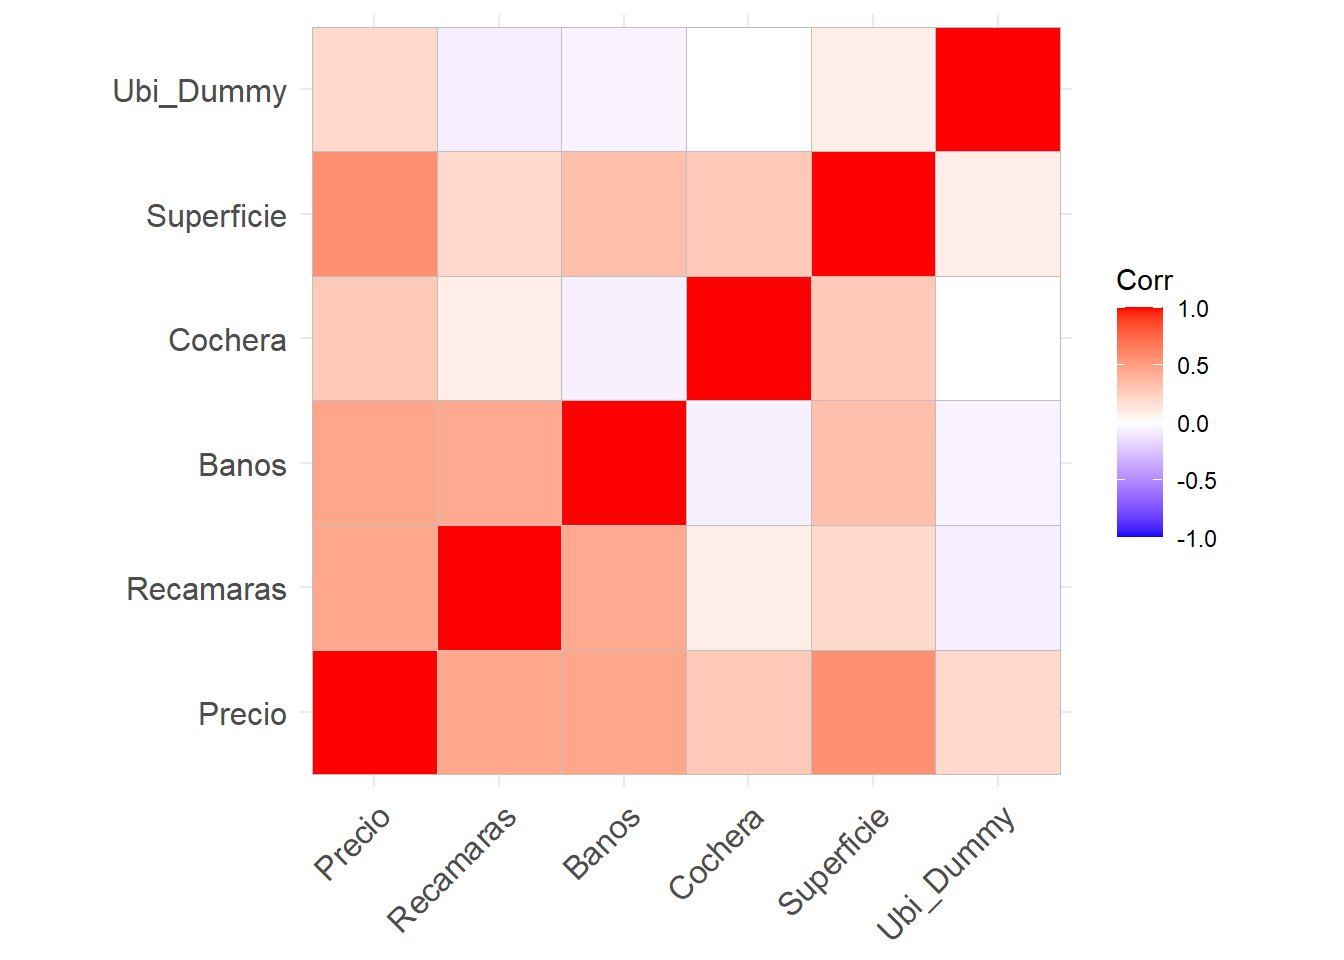
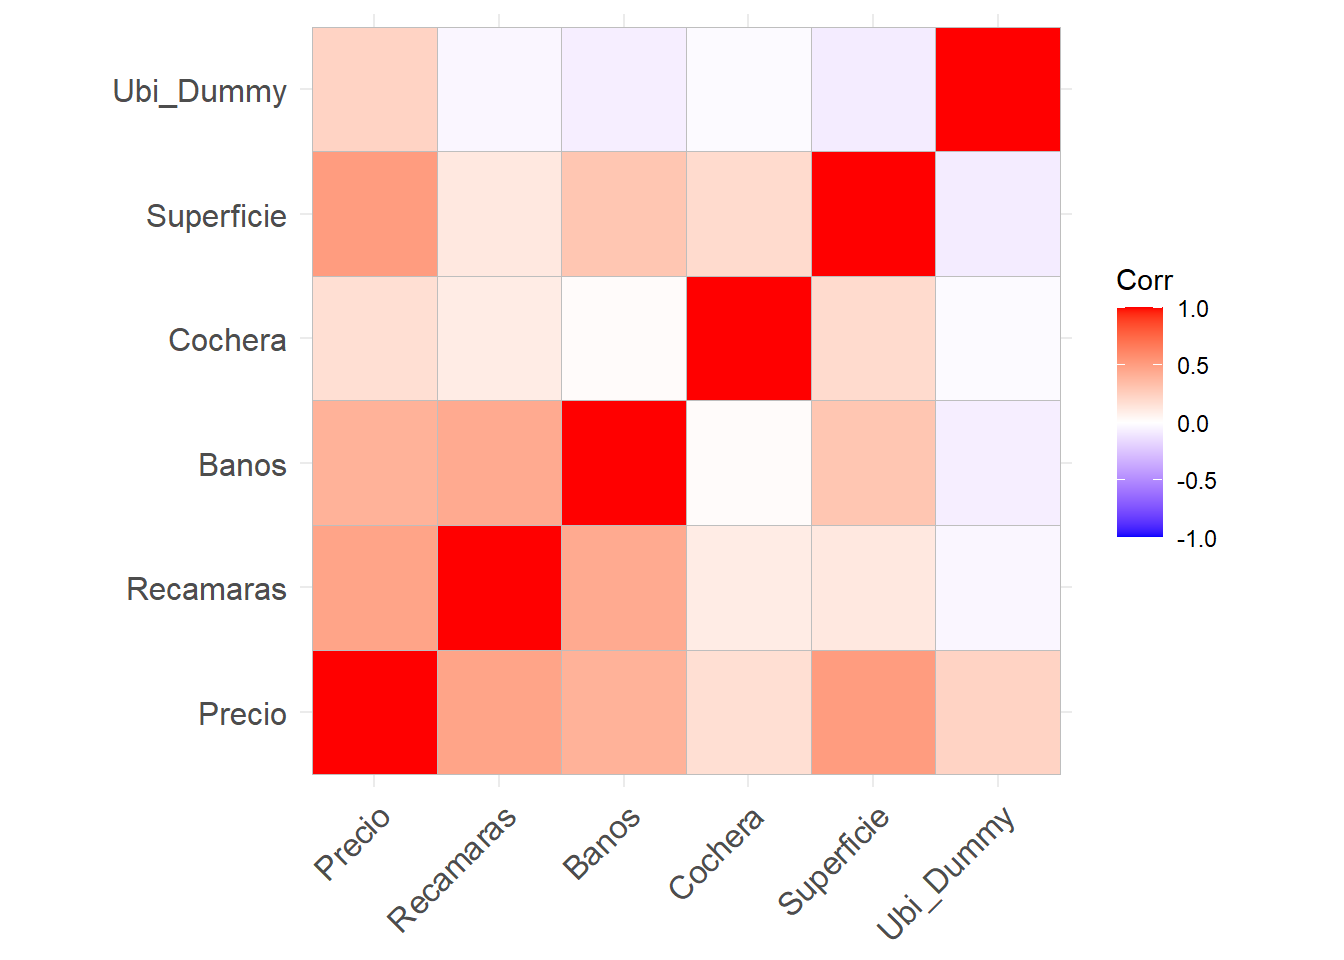
Descirpciones

Changed region(s): [[0.2188, 0.2812, 0.3438, 0.4375], [0.5, 0.6562, 0.625, 0.8125]]

diff --git a/content/portfolio/2022-07-15-qu-determina-el-precio-de-venta-de-las-casas-en-coatepec-veracruz/index.html b/content/portfolio/2022-07-15-qu-determina-el-precio-de-venta-de-las-casas-en-coatepec-veracruz/index.html
@@ -32,7 +32,7 @@ tags:
   - econometrics
   - realestate
 meta_img: images/image.png
-description: Description for the page
+description: Análisis estadístico para avierguar que factores determinan el precio de venta de una casa en el municipio basado en datos extraídos de VivaAnuncios.com. El proyecto culmina en un modelo predictivo de regresión lineal que sugiere el precio para anunciar una casa según sus características.
 runtime: shiny
 output: blogdown::html_document
 ---
@@ -216,11 +216,11 @@ casas %&gt;%
 <pre><code>## # A tibble: 5 x 2
 ##   Ubicacion              `Precio promedio`
 ##   &lt;chr&gt;                              &lt;dbl&gt;
-## 1 Campo Viejo                         2.12
-## 2 Centro                              1.96
-## 3 La Mata                             2.44
-## 4 Nueva Nestle                        2.64
-## 5 Rafael Hernandez Ochoa              2.15</code></pre>
+## 1 Campo Viejo                         2.10
+## 2 Centro                              2.00
+## 3 La Mata                             2.40
+## 4 Nueva Nestle                        3.33
+## 5 Rafael Hernandez Ochoa              2.00</code></pre>
 <pre class="r"><code>casas_dummy &lt;- casas %&gt;%
   mutate(Ubi_Dummy = recode(Ubicacion,
                             &quot;Campo Viejo&quot; = &quot;0&quot;,
@@ -262,7 +262,7 @@ as.data.frame(summary.out$outmat)</code></pre>
 <pre class="r"><code>plot(regsubsets1, scale = &quot;adjr2&quot;, main = &quot;R^2 ajustada&quot;)</code></pre>
 <p><img src="{{< blogdown/postref >}}index_files/figure-html/regressors-1.png" width="672" /></p>
 <pre class="r"><code>which.max(summary.out$adjr2)</code></pre>
-<pre><code>## [1] 5</code></pre>
+<pre><code>## [1] 4</code></pre>
 <p>Construyendo el modelo, conseguiríamos los coeficientes que se muestran en la tabla.</p>
 <pre class="r"><code>#Linear regression model
 summary(lm(Precio ~ Recamaras + Banos + Superficie + Ubi_Dummy, data = casas_dummy))</code></pre>
@@ -272,22 +272,22 @@ summary(lm(Precio ~ Recamaras + Banos + Superficie + Ubi_Dummy, data = casas_dum
 ##     data = casas_dummy)
 ## 
 ## Residuals:
-##     Min      1Q  Median      3Q     Max 
-## -1.0032 -0.3183  0.0565  0.2373  1.4627 
+##      Min       1Q   Median       3Q      Max 
+## -1.09421 -0.30061  0.04995  0.23850  1.33295 
 ## 
 ## Coefficients:
-##             Estimate Std. Error t value Pr(&gt;|t|)    
-## (Intercept) -0.60711    0.41108  -1.477  0.14542    
-## Recamaras    0.34551    0.12781   2.703  0.00912 ** 
-## Banos        0.17794    0.09960   1.787  0.07953 .  
-## Superficie   0.00751    0.00176   4.266 7.89e-05 ***
-## Ubi_Dummy    0.10871    0.05571   1.951  0.05612 .  
+##              Estimate Std. Error t value Pr(&gt;|t|)    
+## (Intercept) -0.729219   0.414017  -1.761 0.083951 .  
+## Recamaras    0.425100   0.121128   3.510 0.000925 ***
+## Banos        0.103957   0.098218   1.058 0.294658    
+## Superficie   0.007595   0.001685   4.507 3.67e-05 ***
+## Ubi_Dummy    0.153767   0.052241   2.943 0.004809 ** 
 ## ---
 ## Signif. codes:  0 &#39;***&#39; 0.001 &#39;**&#39; 0.01 &#39;*&#39; 0.05 &#39;.&#39; 0.1 &#39; &#39; 1
 ## 
-## Residual standard error: 0.4871 on 55 degrees of freedom
-## Multiple R-squared:  0.5034, Adjusted R-squared:  0.4672 
-## F-statistic: 13.94 on 4 and 55 DF,  p-value: 6.499e-08</code></pre>
+## Residual standard error: 0.4718 on 53 degrees of freedom
+## Multiple R-squared:  0.5167, Adjusted R-squared:  0.4802 
+## F-statistic: 14.16 on 4 and 53 DF,  p-value: 6.309e-08</code></pre>
 <pre class="r"><code>modelo &lt;- lm(Precio ~ Recamaras + Banos + Superficie + Ubi_Dummy, data = casas_dummy)
 
 coef &lt;- summary(modelo)$coefficients %&gt;% as.data.frame()
@@ -308,38 +308,38 @@ knitr::kable(coef,
 <tbody>
 <tr class="odd">
 <td align="left">(Intercept)</td>
-<td align="right">-0.6071149</td>
-<td align="right">0.4110850</td>
-<td align="right">-1.476860</td>
-<td align="right">0.1454165</td>
+<td align="right">-0.7292194</td>
+<td align="right">0.4140166</td>
+<td align="right">-1.761329</td>
+<td align="right">0.0839506</td>
 </tr>
 <tr class="even">
 <td align="left">Recamaras</td>
-<td align="right">0.3455078</td>
-<td align="right">0.1278117</td>
-<td align="right">2.703257</td>
-<td align="right">0.0091167</td>
+<td align="right">0.4250995</td>
+<td align="right">0.1211278</td>
+<td align="right">3.509513</td>
+<td align="right">0.0009247</td>
 </tr>
 <tr class="odd">
 <td align="left">Banos</td>
-<td align="right">0.1779415</td>
-<td align="right">0.0996031</td>
-<td align="right">1.786506</td>
-<td align="right">0.0795294</td>
+<td align="right">0.1039573</td>
+<td align="right">0.0982180</td>
+<td align="right">1.058435</td>
+<td align="right">0.2946575</td>
 </tr>
 <tr class="even">
 <td align="left">Superficie</td>
-<td align="right">0.0075103</td>
-<td align="right">0.0017604</td>
-<td align="right">4.266349</td>
-<td align="right">0.0000789</td>
+<td align="right">0.0075946</td>
+<td align="right">0.0016851</td>
+<td align="right">4.506782</td>
+<td align="right">0.0000367</td>
 </tr>
 <tr class="odd">
 <td align="left">Ubi_Dummy</td>
-<td align="right">0.1087070</td>
-<td align="right">0.0557099</td>
-<td align="right">1.951304</td>
-<td align="right">0.0561215</td>
+<td align="right">0.1537669</td>
+<td align="right">0.0522408</td>
+<td align="right">2.943428</td>
+<td align="right">0.0048086</td>
 </tr>
 </tbody>
 </table>

diff --git a/content/portfolio/2022-07-18-qu-plataforma-de-streaming-tiene-las-mejores-pel-culas/index.html b/content/portfolio/2022-07-18-qu-plataforma-de-streaming-tiene-las-mejores-pel-culas/index.html
@@ -28,7 +28,7 @@ tags:
   - best
   - top
 meta_img: images/image.png
-description: Description for the page
+description: Análisis que compara los catálogos de películas de Netflix, Amazon Prime Video, Disney y Hulu para determinar cual ofrece el contenido mejor calificado en Rotten Tomatoes. El proyecto culmina con una app web que recomienda las mejores películas según su género, clasificación y plataforma de streaming.
 ---
 
 
@@ -560,6 +560,12 @@ knitr::kable(top_10, caption = &quot;Top 10 películas de cada plataforma&quot;,
 </tr>
 </tbody>
 </table>
+</div>
+<div id="aplicación-para-recomendarte-películas" class="section level2">
+<h2>Aplicación para recomendarte películas</h2>
+<p>Si quieres saber cuales son las mejores películas de acuerdo con su género, clasificación y plataforma, desarrollé esta app para ti.</p>
+<iframe height="800" width="100%" frameborder="no" src="https://sergiolopezolvera.shinyapps.io/peli_stream/">
+</iframe>
 <p>Te agradezco la lectura y te recuerdo que cualquier observación, sugerencia o idea de proyecto es bienvenida. Y si te interesa ahondar más en este tema, tan sólo coméntalo.</p>
 </div>
 </div>

diff --git a/content/portfolio/2022-07-11-ciudad-del-caf-en-veracruz/index.html b/content/portfolio/2022-07-11-ciudad-del-caf-en-veracruz/index.html
@@ -20,7 +20,7 @@ tags:
   - café
   - veracruz
 meta_img: images/image.png
-description: Description for the page
+description: Análisis exploratorio y descriptivo de las actividades económicas relacionadas al café en el municipio de Coatepec (antes llamada la ciudad del café) comparado con el resto del estado de Veracruz, México.
 ---
 
 

diff --git a/content/portfolio/2022-07-25-qu-influencers-dominan-las-redes-sociales/index.html b/content/portfolio/2022-07-25-qu-influencers-dominan-las-redes-sociales/index.html
@@ -20,7 +20,7 @@ tags:
   - tiktok
   - facebook
 meta_img: images/image.png
-description: Description for the page
+description: Análisis exploratorio de las cuentas y categorías que dominan Instagram y TikTok en Junio de 2022.
 ---
 
 
